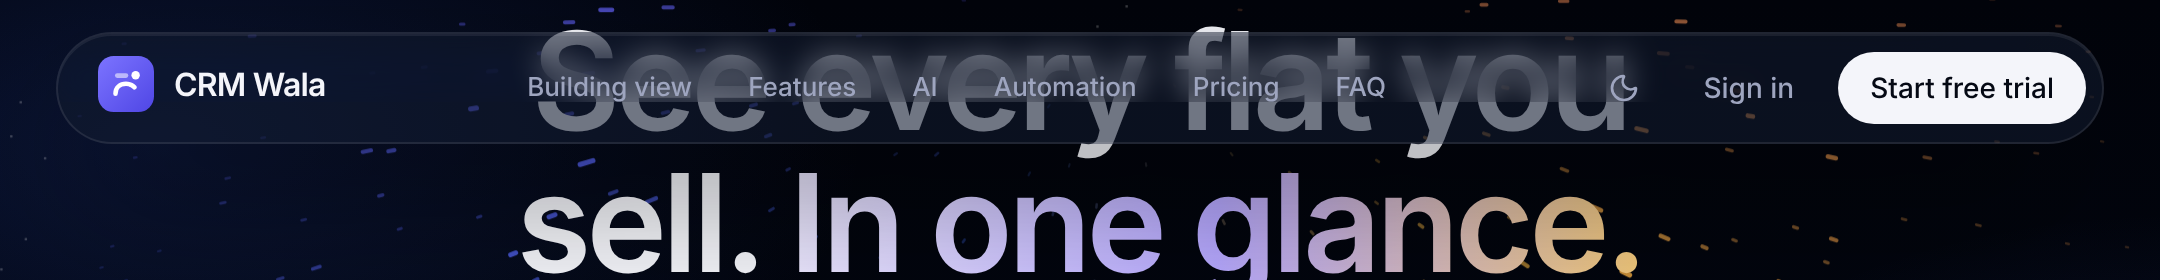
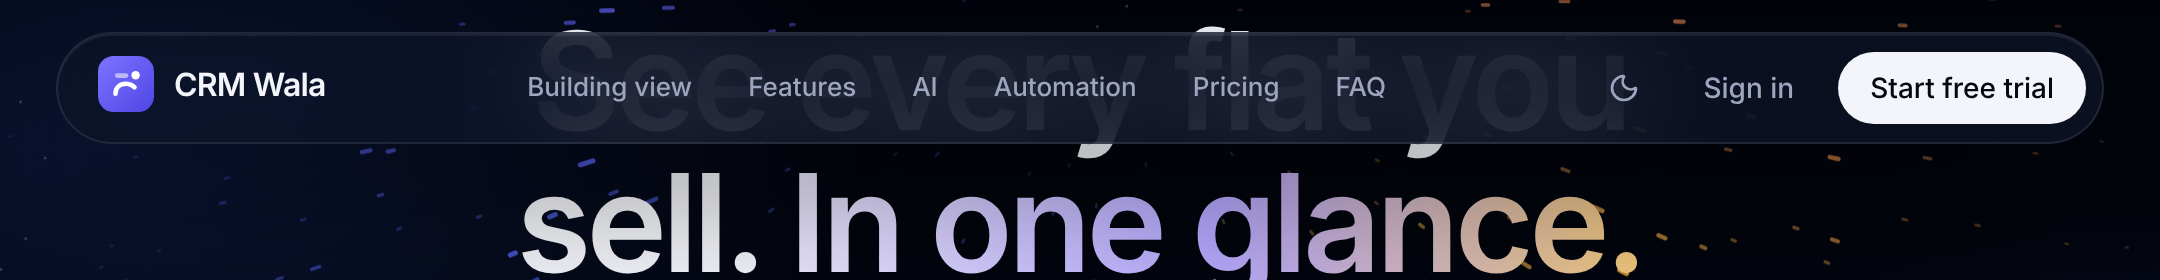
Keep refracting menus fully frosted in every Chrome version
The account menu showed sharp text through its lower part: Chromium anchors
a backdrop filter at the edge of the element's drop shadow, and where that
anchor lands differs between Chrome versions, so the filter missed part of
the menu. The filter now sits on a ::before that exactly fills the panel
and has no shadow, so it always lines up and no offset guessing is needed.

Claude-Session: https://claude.ai/code/session_01HcrZEFqQ7wvUSMMGP4r3XQ

Changed region(s): [[0.2481, 0.1143, 0.7755, 0.5143]]

diff --git a/packages/ui/src/components/liquid-glass.tsx b/packages/ui/src/components/liquid-glass.tsx
@@ -1,7 +1,8 @@
 "use client";
 import * as React from "react";
 
-/* Liquid glass refraction. Every floating `.glass` / `.glass-pop` element gets its own SVG displacement filter as its backdrop-filter,
+/* Liquid glass refraction. Every floating `.glass` / `.glass-pop` element gets an SVG displacement filter as its backdrop-filter
+   (drawn on its `::before`, see `.lg-on` in styles.css),
    so whatever sits behind it bends like light through a water droplet: strongly pulled and magnified in a band along the
    rounded edge, with a slight lens magnification in the middle. Red, green and blue are displaced by slightly different
    amounts, so the edges fringe with colour. `.glass` stays fairly clear, while `.glass-pop` (menus, dialogs) is frosted over.
@@ -58,11 +59,11 @@ function el<K extends keyof SVGElementTagNameMap>(tag: K, attrs: Record<string, 
   const n = document.createElementNS(NS, tag); for (const [k, v] of Object.entries(attrs)) n.setAttribute(k, String(v)); parent?.appendChild(n); return n;
 }
 
-function buildFilter(id: string, w: number, h: number, radius: number, frost: boolean, blur: number, ox: number, oy: number) {
+function buildFilter(id: string, w: number, h: number, radius: number, frost: boolean, blur: number) {
   const band = Math.max(6, Math.min(30, Math.min(w, h) * 0.34));
   const shift = Math.min(band * 1.1, 28);
-  const f = el("filter", { id, x: -ox - PAD, y: -oy - PAD, width: w + 2 * PAD, height: h + 2 * PAD, filterUnits: "userSpaceOnUse", primitiveUnits: "userSpaceOnUse", "color-interpolation-filters": "sRGB" });
-  el("feImage", { href: makeMap(w, h, radius, band, shift), x: -ox - PAD, y: -oy - PAD, width: w + 2 * PAD, height: h + 2 * PAD, preserveAspectRatio: "none", result: "map" }, f);
+  const f = el("filter", { id, x: -PAD, y: -PAD, width: w + 2 * PAD, height: h + 2 * PAD, filterUnits: "userSpaceOnUse", primitiveUnits: "userSpaceOnUse", "color-interpolation-filters": "sRGB" });
+  el("feImage", { href: makeMap(w, h, radius, band, shift), x: -PAD, y: -PAD, width: w + 2 * PAD, height: h + 2 * PAD, preserveAspectRatio: "none", result: "map" }, f);
   // one displacement per colour channel, each a touch weaker: the colour fringe along the rim
   const channels: [string, number, string][] = [["r", 2 * shift, "1 0 0 0 0  0 0 0 0 0  0 0 0 0 0  0 0 0 1 0"], ["g", 2 * shift * 0.96, "0 0 0 0 0  0 1 0 0 0  0 0 0 0 0  0 0 0 1 0"], ["b", 2 * shift * 0.92, "0 0 0 0 0  0 0 0 0 0  0 0 1 0 0  0 0 0 1 0"]];
   for (const [c, scale, m] of channels) {
@@ -85,29 +86,6 @@ function floats(node: HTMLElement) {
   return false;
 }
 
-/* Chromium places a backdrop filter's user space at the top-left of the element's visual overflow, not its border box, so a
-   drop shadow or a child sticking out would shift the map off the element. Measure that overflow (box shadows reach about
-   1.5x their blur) and offset the filter by it. */
-function inkOffset(node: HTMLElement) {
-  let left = 0, top = 0;
-  const cs = getComputedStyle(node);
-  for (const part of cs.boxShadow === "none" ? [] : cs.boxShadow.split(/,(?![^(]*\))/)) {
-    if (/inset/.test(part)) continue;
-    const n = (part.replace(/rgba?\([^)]*\)|#[0-9a-f]+/gi, "").match(/-?[\d.]+px/g) ?? []).map(parseFloat);
-    const [x = 0, y = 0, blur = 0, spread = 0] = n;
-    left = Math.max(left, blur * 1.5 + spread - x); top = Math.max(top, blur * 1.5 + spread - y);
-  }
-  if (cs.overflow === "visible") {
-    const box = node.getBoundingClientRect();
-    const walk = document.createTreeWalker(node, NodeFilter.SHOW_ELEMENT, { acceptNode: (e) => (getComputedStyle(e as Element).overflow !== "visible" ? NodeFilter.FILTER_REJECT : NodeFilter.FILTER_ACCEPT) });
-    for (let i = 0, e = walk.nextNode() as Element | null; e && i < 600; i++, e = walk.nextNode() as Element | null) {
-      const r = e.getBoundingClientRect(); if (!r.width && !r.height) continue;
-      left = Math.max(left, box.left - r.left); top = Math.max(top, box.top - r.top);
-    }
-  }
-  return [Math.max(0, Math.round(left)), Math.max(0, Math.round(top))];
-}
-
 export function LiquidGlass() {
   const svgRef = React.useRef<SVGSVGElement>(null);
   React.useEffect(() => {
@@ -117,28 +95,38 @@ export function LiquidGlass() {
     const current = new WeakMap<Element, string>();
     let seq = 0;
 
+    const off = (node: HTMLElement) => {
+      node.classList.remove("lg-on"); node.style.removeProperty("--lg-filter");
+      if (node.dataset.lgPos !== undefined) { node.style.removeProperty("position"); delete node.dataset.lgPos; }
+    };
     const release = (key: string | undefined) => {
       if (!key) return; const e = cache.get(key); if (!e) return;
       e.refs--;
       if (e.refs <= 0 && cache.size > MAX_FILTERS) { e.node.remove(); cache.delete(key); }
     };
     const apply = (node: HTMLElement) => {
-      const w = node.offsetWidth, h = node.offsetHeight;
-      if (w < 8 || h < 8) return;
-      if (!floats(node)) { release(current.get(node)); current.delete(node); if (node.classList.contains("lg-on")) { node.style.removeProperty("backdrop-filter"); node.classList.remove("lg-on"); } return; }
-      const bw = Math.round(w / BUCKET) * BUCKET || BUCKET, bh = Math.round(h / BUCKET) * BUCKET || BUCKET;
       const cs = getComputedStyle(node);
-      const radius = Math.min(parseFloat(cs.borderTopLeftRadius) || 0, bw / 2, bh / 2);
+      // the filter fills the padding box (inside the border), see `.lg-on::before` in styles.css
+      const bl = parseFloat(cs.borderLeftWidth) || 0, bt = parseFloat(cs.borderTopWidth) || 0;
+      const w = node.offsetWidth - bl - (parseFloat(cs.borderRightWidth) || 0), h = node.offsetHeight - bt - (parseFloat(cs.borderBottomWidth) || 0);
+      if (w < 8 || h < 8) return;
+      if (!floats(node)) { release(current.get(node)); current.delete(node); if (node.classList.contains("lg-on")) off(node); return; }
+      const bw = Math.round(w / BUCKET) * BUCKET || BUCKET, bh = Math.round(h / BUCKET) * BUCKET || BUCKET;
+      const radius = Math.min(Math.max(0, (parseFloat(cs.borderTopLeftRadius) || 0) - Math.max(bl, bt)), bw / 2, bh / 2);
       const frost = node.classList.contains("glass-pop");
       // `--lg-blur` lets a panel that carries text over busy content (the landing nav) frost a little more
       const blur = parseFloat(cs.getPropertyValue("--lg-blur")) || (frost ? 9 : 2.5);
-      const [ox, oy] = inkOffset(node);
-      const key = `${bw}x${bh}r${Math.round(radius)}${frost ? "f" : "c"}b${blur}o${ox},${oy}`;
+      const key = `${bw}x${bh}r${Math.round(radius)}${frost ? "f" : "c"}b${blur}`;
       if (current.get(node) === key) return;
       let e = cache.get(key);
-      if (!e) { const id = `lg-${++seq}`; e = { id, refs: 0, node: buildFilter(id, bw, bh, radius, frost, blur, ox, oy) }; defs.appendChild(e.node); cache.set(key, e); }
+      if (!e) { const id = `lg-${++seq}`; e = { id, refs: 0, node: buildFilter(id, bw, bh, radius, frost, blur) }; defs.appendChild(e.node); cache.set(key, e); }
       e.refs++; release(current.get(node)); current.set(node, key);
-      node.style.setProperty("backdrop-filter", `url(#${e.id})`); if (!node.classList.contains("lg-on")) node.classList.add("lg-on");
+      node.style.setProperty("--lg-filter", `url(#${e.id})`);
+      if (!node.classList.contains("lg-on")) {
+        // the filter's pseudo-element is absolutely placed, so the panel must be positioned
+        if (cs.position === "static") { node.style.position = "relative"; node.dataset.lgPos = ""; }
+        node.classList.add("lg-on");
+      }
     };
 
     const pending = new Set<HTMLElement>(); let raf = 0;
@@ -156,10 +144,7 @@ export function LiquidGlass() {
       }
     });
     mo.observe(document.body, { childList: true, subtree: true, attributes: true, attributeFilter: ["class"] });
-    // a hover that grows a shadow changes the overflow too, so re-measure when a shadow transition ends
-    const onTransition = (e: TransitionEvent) => { const t = e.target as HTMLElement; if ((e.propertyName === "box-shadow" || e.propertyName === "all") && t.matches?.(".glass, .glass-pop")) queue(t); };
-    document.addEventListener("transitionend", onTransition);
-    return () => { document.removeEventListener("transitionend", onTransition); mo.disconnect(); ro.disconnect(); cancelAnimationFrame(raf); };
+    return () => { mo.disconnect(); ro.disconnect(); cancelAnimationFrame(raf); };
   }, []);
   return <svg ref={svgRef} aria-hidden width="0" height="0" style={{ position: "absolute", width: 0, height: 0, pointerEvents: "none" }}><defs /></svg>;
 }

diff --git a/packages/ui/src/styles.css b/packages/ui/src/styles.css
@@ -166,6 +166,10 @@
 .dark .lg-on { --surface: rgba(32, 42, 68, 0.24); --surface-2: rgba(32, 42, 68, 0.16); --surface-pop: rgba(18, 25, 44, 0.58); --glass-btn: rgba(255, 255, 255, 0.1); }
 .glass, .glass-pop { -webkit-backdrop-filter: blur(var(--glass-blur, 22px)) saturate(170%); backdrop-filter: blur(var(--glass-blur, 22px)) saturate(170%); }
 .glass-pop { background-color: var(--surface-pop); }
+/* Refracting glass draws its filter on a pseudo-element that exactly fills it. On the element itself, Chromium would anchor
+   the filter at the edge of the drop shadow, and where that anchor sits differs between Chrome versions. */
+.lg-on { -webkit-backdrop-filter: none; backdrop-filter: none; isolation: isolate; }
+.lg-on::before { content: ""; position: absolute; inset: 0; z-index: -1; border-radius: inherit; pointer-events: none; -webkit-backdrop-filter: var(--lg-filter); backdrop-filter: var(--lg-filter); }
 /* a huge faint word behind a heading, like a watermark */
 .display-word { color: var(--display); font-weight: 700; letter-spacing: -0.05em; line-height: 0.85; white-space: nowrap; pointer-events: none; user-select: none; }
 .hide-scrollbar { scrollbar-width: none; } .hide-scrollbar::-webkit-scrollbar { display: none; }
